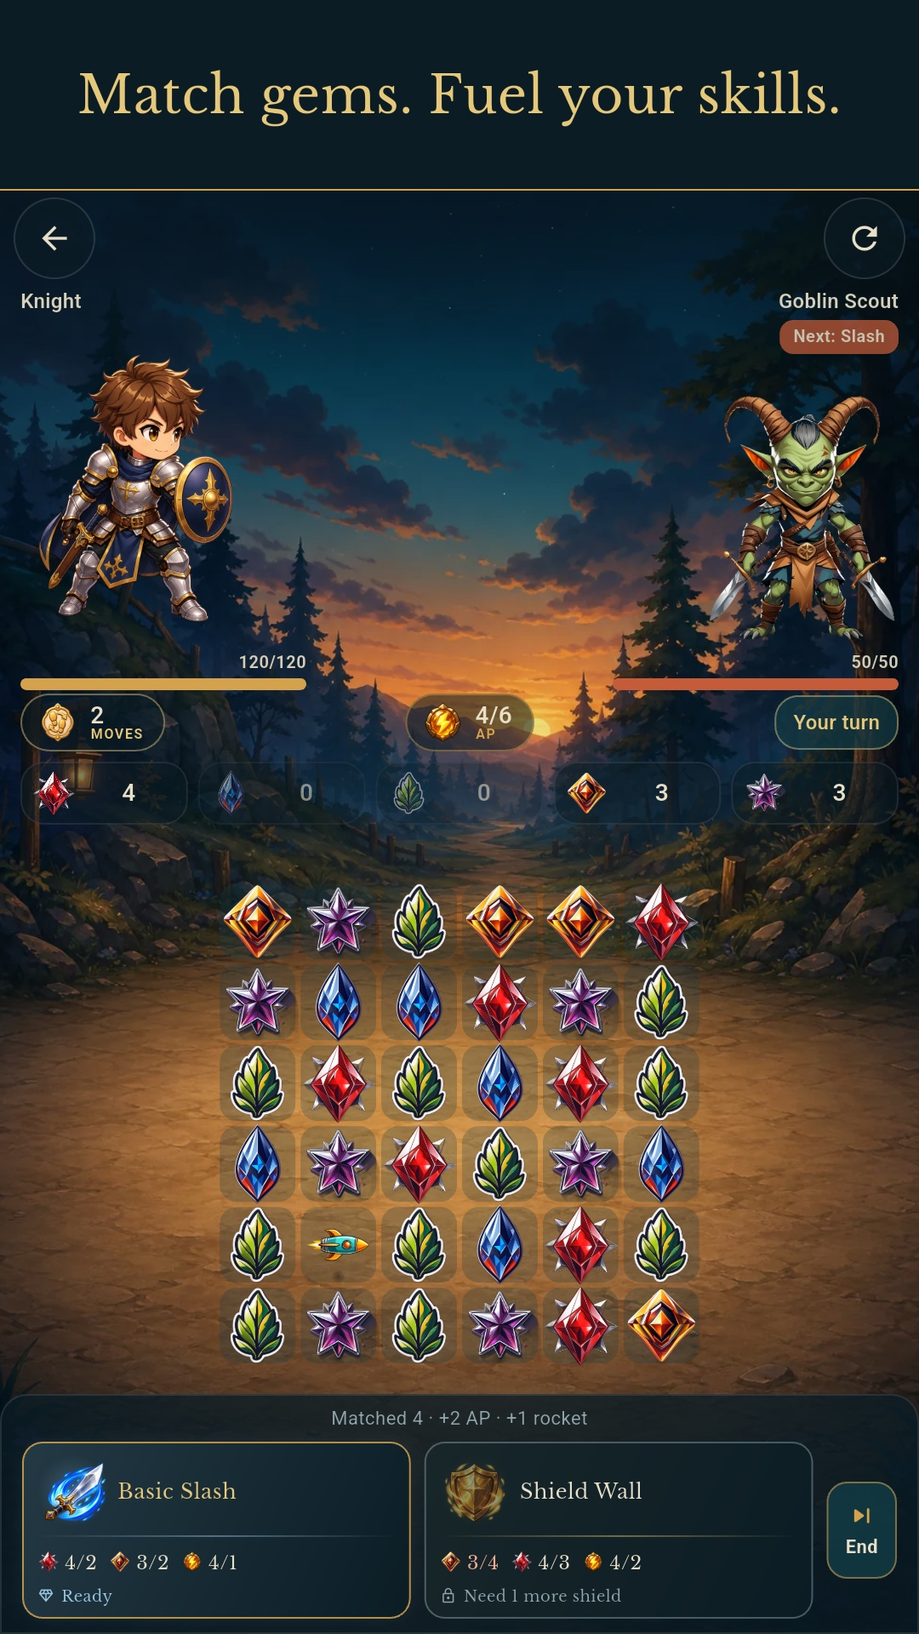
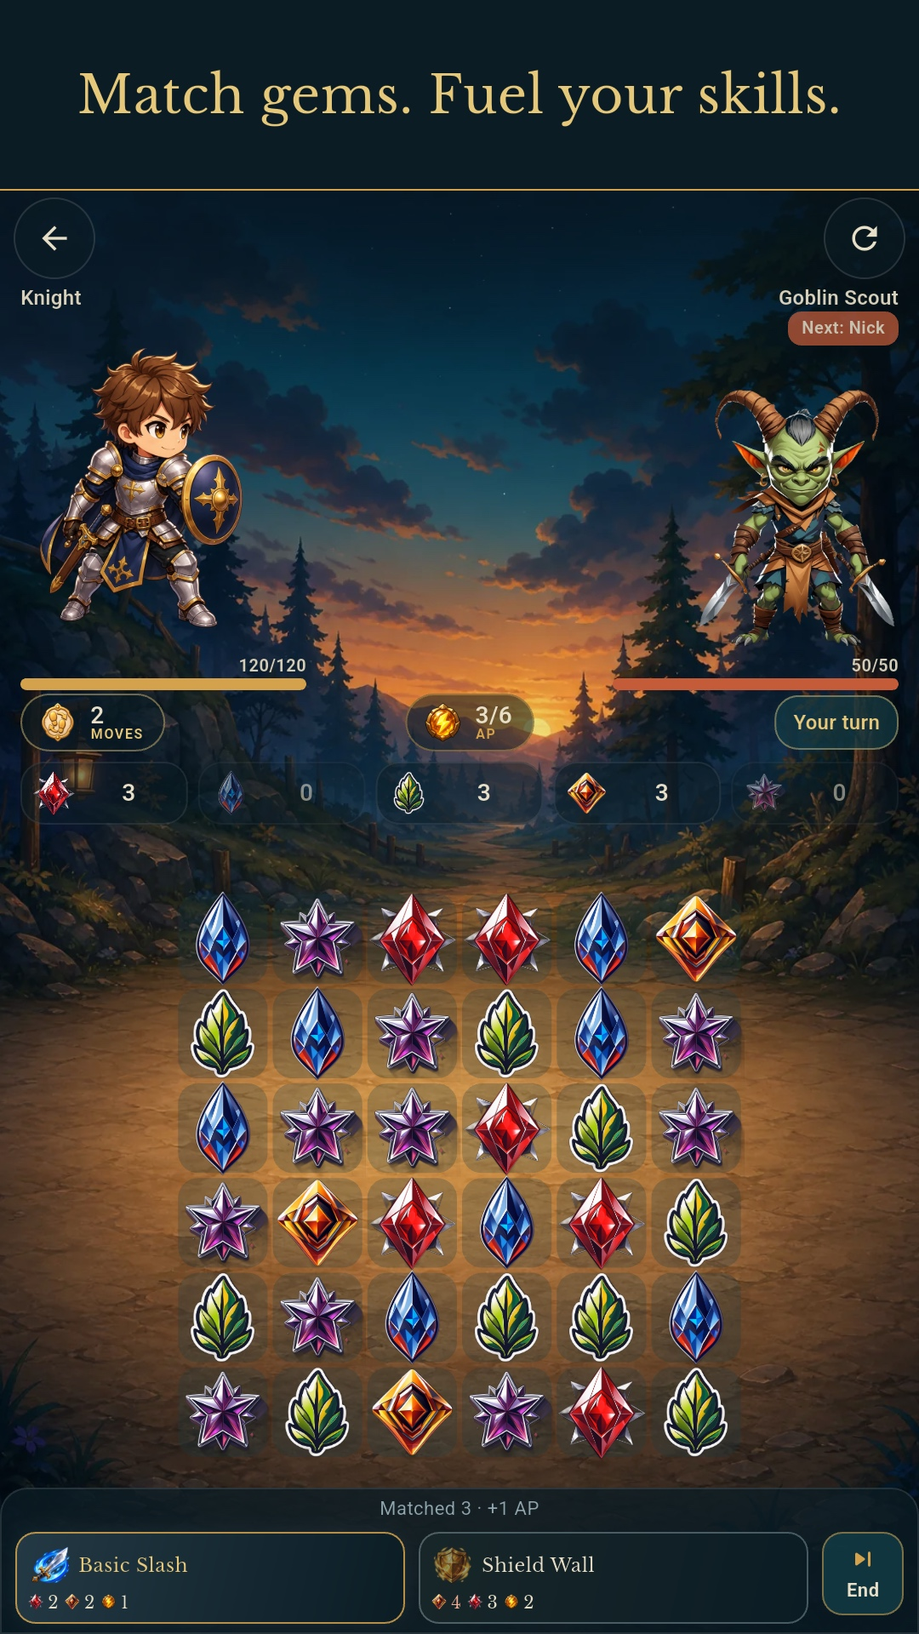
Compact battle skill buttons while restoring original board and character sizing.
Refresh Play combat screenshots and archive the tall-button and rejected v2 layout experiments.

diff --git a/lib/features/battle/presentation/battle_skill_button.dart b/lib/features/battle/presentation/battle_skill_button.dart
@@ -101,14 +101,9 @@ class _BattleSkillButtonState extends State<BattleSkillButton> {
     final duration =
         reduceMotion ? Duration.zero : const Duration(milliseconds: 140);
     final enabled = !unavailable && !casting;
-    final compact = MediaQuery.sizeOf(context).height < 640 ||
-        MediaQuery.textScalerOf(context).scale(14) > 18;
-    final iconSize = compact ? 34.0 : 42.0;
-    final titleSize = compact ? 11.0 : 12.0;
-    final statusSize = compact ? 8.0 : 9.0;
-    final pad = compact
-        ? const EdgeInsets.fromLTRB(6, 5, 6, 5)
-        : const EdgeInsets.fromLTRB(8, 7, 8, 7);
+    final details = '${widget.skill.name}: $label\n'
+        '${afford.resourceLines.map((line) => '${line.resourceId} ${line.have}/${line.need}').join(' · ')}'
+        ' · AP ${afford.apHave}/${afford.apNeed}';
     return Semantics(
       button: true,
       enabled: enabled,
@@ -118,7 +113,7 @@ class _BattleSkillButtonState extends State<BattleSkillButton> {
       onTap: enabled ? _cast : null,
       excludeSemantics: true,
       child: Tooltip(
-          message: '${widget.skill.name}: $label',
+          message: details,
           triggerMode: TooltipTriggerMode.longPress,
           child: AnimatedScale(
               scale: pressed ? .97 : 1,
@@ -168,99 +163,63 @@ class _BattleSkillButtonState extends State<BattleSkillButton> {
                       },
                       splashColor: accent.withValues(alpha: .2),
                       highlightColor: accent.withValues(alpha: .1),
-                      child: Padding(
-                          padding: pad,
-                          child:
-                              Column(mainAxisSize: MainAxisSize.min, children: [
-                            Row(children: [
-                              Container(
-                                  width: iconSize,
-                                  height: iconSize,
-                                  decoration: BoxDecoration(
-                                      shape: BoxShape.circle,
-                                      gradient: RadialGradient(colors: [
-                                        accent.withValues(
-                                            alpha: unavailable ? .08 : .25),
-                                        accent.withValues(alpha: 0)
-                                      ])),
-                                  child: Opacity(
-                                      opacity: unavailable ? .5 : 1,
-                                      child: SkillArt(
-                                          skill: widget.skill,
-                                          size: iconSize))),
-                              const SizedBox(width: 5),
-                              Expanded(
-                                  child: Text(widget.skill.name,
-                                      maxLines: compact ? 1 : 2,
-                                      overflow: TextOverflow.ellipsis,
-                                      style: TextStyle(
-                                          fontFamily: 'DailySerif',
-                                          fontSize: titleSize,
-                                          height: 1.2,
-                                          color: unavailable
-                                              ? MythDuskColors.parchment
-                                              : MythDuskColors.softGold))),
-                            ]),
-                            SizedBox(height: compact ? 3 : 5),
-                            Container(
-                                height: 1,
-                                decoration: BoxDecoration(
-                                    gradient: LinearGradient(colors: [
-                                  accent.withValues(alpha: 0),
-                                  accent.withValues(alpha: .45),
-                                  accent.withValues(alpha: 0)
-                                ]))),
-                            SizedBox(height: compact ? 4 : 7),
-                            Align(
-                                alignment: Alignment.centerLeft,
-                                child: Wrap(
-                                    spacing: 7,
-                                    runSpacing: 2,
-                                    crossAxisAlignment:
-                                        WrapCrossAlignment.center,
-                                    children: [
-                                      for (final line in afford.resourceLines)
-                                        _SkillCost(
-                                            asset: GameAssets.resourceIcon(
-                                                line.resourceId),
-                                            label: line.label,
-                                            name: line.resourceId,
-                                            missing: !line.ok),
-                                      _SkillCost(
-                                          asset: GameAssets.iconAp,
-                                          label:
-                                              '${afford.apHave}/${afford.apNeed}',
-                                          name: 'AP',
-                                          missing: !afford.apOk),
-                                    ])),
-                            SizedBox(height: compact ? 4 : 7),
-                            Row(children: [
-                              Icon(
-                                  unavailable
-                                      ? Icons.lock_outline
-                                      : casting
-                                          ? Icons.auto_awesome
-                                          : Icons.diamond_outlined,
-                                  size: 10,
-                                  color: unavailable
-                                      ? MythDuskColors.muted
-                                      : accent),
-                              const SizedBox(width: 4),
-                              Expanded(
-                                  child: Text(label,
-                                      maxLines: compact ? 1 : 2,
-                                      overflow: TextOverflow.ellipsis,
-                                      style: TextStyle(
-                                          fontFamily: 'DailySerif',
-                                          fontSize: statusSize,
-                                          height: 1.15,
-                                          color: unavailable
-                                              ? MythDuskColors.muted
-                                              : accent))),
-                              if (casting)
-                                Icon(Icons.bolt, size: 12, color: accent),
-                            ]),
-                          ])),
+                      child: ConstrainedBox(
+                        constraints: const BoxConstraints(minHeight: 52),
+                        child: Padding(
+                            padding: const EdgeInsets.symmetric(
+                                horizontal: 6, vertical: 5),
+                            child: Column(
+                                mainAxisSize: MainAxisSize.min,
+                                children: [
+                                  Row(children: [
+                                    Opacity(
+                                        opacity: unavailable ? .55 : 1,
+                                        child: SkillArt(
+                                            skill: widget.skill, size: 26)),
+                                    const SizedBox(width: 4),
+                                    Expanded(
+                                        child: Text(widget.skill.name,
+                                            maxLines: 1,
+                                            overflow: TextOverflow.ellipsis,
+                                            style: TextStyle(
+                                                fontFamily: 'DailySerif',
+                                                fontSize: 11,
+                                                color: unavailable
+                                                    ? MythDuskColors.parchment
+                                                    : MythDuskColors
+                                                        .softGold))),
+                                    if (casting)
+                                      Icon(Icons.auto_awesome,
+                                          size: 10, color: accent),
+                                  ]),
+                                  const SizedBox(height: 2),
+                                  Align(
+                                      alignment: Alignment.centerLeft,
+                                      child: Wrap(
+                                        spacing: 3,
+                                        runSpacing: 2,
+                                        crossAxisAlignment:
+                                            WrapCrossAlignment.center,
+                                        children: [
+                                          for (final line
+                                              in afford.resourceLines)
+                                            _SkillCost(
+                                                asset: GameAssets.resourceIcon(
+                                                    line.resourceId),
+                                                label: '${line.need}',
+                                                name:
+                                                    '${line.resourceId} ${line.have}/${line.need}',
+                                                missing: !line.ok),
+                                          _SkillCost(
+                                              asset: GameAssets.iconAp,
+                                              label: '${afford.apNeed}',
+                                              name:
+                                                  'AP ${afford.apHave}/${afford.apNeed}',
+                                              missing: !afford.apOk),
+                                        ],
+                                      )),
+                                ])),
+                      ),
                     )),
               ))),
     );
@@ -279,16 +238,17 @@ class _SkillCost extends StatelessWidget {
   final bool missing;
   @override
   Widget build(BuildContext context) => Tooltip(
-      message: '$name: $label',
+      message: name,
       child: Row(mainAxisSize: MainAxisSize.min, children: [
-        Image.asset(asset, width: 13, height: 13, excludeFromSemantics: true),
-        const SizedBox(width: 3),
-        Text(label,
-            style: TextStyle(
-                fontFamily: 'DailySerif',
-                fontSize: 11,
-                color: missing
-                    ? const Color(0xFFF0AD91)
-                    : MythDuskColors.parchment)),
+        Image.asset(asset, width: 10, height: 10, excludeFromSemantics: true),
+        const SizedBox(width: 2),
+        Flexible(
+            child: Text(label,
+                style: TextStyle(
+                    fontFamily: 'DailySerif',
+                    fontSize: 10,
+                    color: missing
+                        ? const Color(0xFFF0AD91)
+                        : MythDuskColors.parchment))),
       ]));
 }

diff --git a/test/battle_skill_button_test.dart b/test/battle_skill_button_test.dart
@@ -11,6 +11,7 @@ import 'package:mythdusk/core/widgets/skill_art.dart';
 import 'package:mythdusk/features/battle/domain/battle_state.dart';
 import 'package:mythdusk/features/battle/presentation/battle_screen.dart';
 import 'package:mythdusk/features/battle/presentation/battle_skill_button.dart';
+import 'package:mythdusk/features/battle/presentation/battle_stage.dart';
 import 'package:mythdusk/features/battle/presentation/animated_puzzle_board.dart';
 import 'package:mythdusk/features/campaign/data/campaign_repository.dart';
 import 'package:mythdusk/features/profile/providers/mock_profile_provider.dart';
@@ -30,6 +31,7 @@ void main() {
   testWidgets(
       'all 20 skills display live costs and charge exactly once per cast',
       (tester) async {
+    final semantics = tester.ensureSemantics();
     for (final hero in HeroCatalog.all) {
       for (final skill in hero.skills) {
         var battle = _ready(hero);
@@ -41,7 +43,7 @@ void main() {
             home: Scaffold(body: StatefulBuilder(builder: (context, setState) {
               update = setState;
               return SizedBox(
-                  width: 220,
+                  width: 116,
                   child: BattleSkillButton(
                       key: ValueKey(skill.id),
                       skill: skill,
@@ -56,10 +58,15 @@ void main() {
             }))));
         await tester.pumpAndSettle();
         expect(find.byType(SkillArt), findsOneWidget);
-        expect(find.text('${hero.maxAp}/${skill.apCost}'), findsOneWidget);
+        expect(
+            find.bySemanticsLabel(
+                RegExp('AP ${hero.maxAp} of ${skill.apCost} required')),
+            findsOneWidget);
+        expect(tester.getSize(find.byType(BattleSkillButton)).height,
+            lessThanOrEqualTo(64));
         await tester.tap(find.byType(BattleSkillButton));
         await tester.pump();
-        expect(find.text('Casting…'), findsOneWidget);
+        expect(find.bySemanticsLabel(RegExp('Casting…')), findsOneWidget);
         await tester.tap(find.byType(BattleSkillButton));
         expect(casts, 1);
         expect(battle.ap, hero.maxAp - skill.apCost);
@@ -68,10 +75,11 @@ void main() {
         }
         finished.complete();
         await tester.pumpAndSettle();
-        expect(find.text('Casting…'), findsNothing);
+        expect(find.bySemanticsLabel(RegExp('Casting…')), findsNothing);
         expect(tester.takeException(), isNull);
       }
     }
+    semantics.dispose();
   });
 
   testWidgets('missing AP or resources and non-player phases block input',
@@ -127,6 +135,30 @@ void main() {
   });
 
   testWidgets(
+      'long press shows exact costs without casting an unavailable skill',
+      (tester) async {
+    var casts = 0;
+    final battle = _ready(HeroCatalog.mage).copyWith(ap: 0);
+    await tester.pumpWidget(MaterialApp(
+        home: Scaffold(
+            body: Center(
+                child: SizedBox(
+                    width: 180,
+                    child: BattleSkillButton(
+                        skill: HeroCatalog.mage.skills.first,
+                        battle: battle,
+                        onTap: () async {
+                          casts++;
+                        }))))));
+    await tester.pumpAndSettle();
+    await tester.longPress(find.byType(BattleSkillButton));
+    await tester.pumpAndSettle();
+    expect(find.textContaining('mana 20/4'), findsOneWidget);
+    expect(find.textContaining('AP 0/2'), findsOneWidget);
+    expect(casts, 0);
+  });
+
+  testWidgets(
       'full battle keeps board visible and skills reachable on compact phones',
       (tester) async {
     SharedPreferences.setMockInitialValues({
@@ -171,6 +203,13 @@ void main() {
         await tester.pumpAndSettle();
         expect(find.byType(BattleSkillButton), findsNWidgets(2));
         expect(find.text('Meteor Shard'), findsOneWidget);
+        final compact = size.height < 640 || scale > 1.3;
+        final expectedStageHeight = (size.height * (compact ? .24 : .28)).clamp(
+          compact ? (scale > 1.3 ? 160.0 : 140.0) : 160.0,
+          compact ? 220.0 : 280.0,
+        );
+        expect(tester.getSize(find.byType(BattleStage)).height,
+            closeTo(expectedStageHeight, .1));
         expect(tester.getSize(find.byType(AnimatedPuzzleBoard)).height,
             greaterThan(120));
         await tester.ensureVisible(find.byType(BattleSkillButton).first);

diff --git a/lib/features/battle/presentation/battle_screen.dart b/lib/features/battle/presentation/battle_screen.dart
@@ -428,8 +428,7 @@ class _BattleScreenState extends ConsumerState<BattleScreen> {
                             color: Colors.white.withValues(alpha: 0.10),
                           ),
                         ),
-                        padding: EdgeInsets.fromLTRB(
-                            12, compact ? 4 : 6, 12, compact ? 6 : 8),
+                        padding: const EdgeInsets.fromLTRB(8, 4, 8, 5),
                         child: Column(
                           mainAxisSize: MainAxisSize.min,
                           children: [
@@ -675,8 +674,9 @@ class _EndTurnButton extends StatelessWidget {
         borderRadius: BorderRadius.circular(12),
         onTap: enabled ? onTap : null,
         child: AnimatedContainer(
+          constraints: const BoxConstraints(minHeight: 48, minWidth: 48),
           duration: const Duration(milliseconds: 200),
-          padding: const EdgeInsets.symmetric(horizontal: 10, vertical: 10),
+          padding: const EdgeInsets.symmetric(horizontal: 8, vertical: 6),
           decoration: BoxDecoration(
             color: enabled
                 ? MythDuskColors.deepTeal.withValues(alpha: 0.85)

diff --git a/art_sources/ui/battle_skills/v2/README.md b/art_sources/ui/battle_skills/v2/README.md
@@ -1,0 +1,28 @@
+# Compact battle controls — v2
+
+Rejected sizing experiment: the owner requested restoring original board and character sizes. That correction is implemented and documented in `../v3/README.md`. Only the smaller action controls are retained. Images below are historical, not the current layout.
+
+2026-10-20 revision following owner feedback that the illustrated cards occupied too much screen space. This supersedes the v1 tall button layout.
+
+## Result
+
+- Slim illustrated skill buttons have a 52px minimum height, with icon/name and a short strip of required resource/AP costs. No divider or separate readiness/status row. All 20 skills remain supported.
+- Ready state uses the gold frame and skill color; unavailable state dims the art and highlights unmet costs. Casting and pressed feedback remain. Full current/required values and the blocking reason are available by long press and through semantics, including on disabled skills.
+- Normal buttons are checked at 116px width and must remain at or below 64px height. Text enlargement may wrap costs; touch targets remain at least 48px.
+- The character stage is secondary (112px at normal text size, 160px at enlarged text). The board uses 97% of available width with a 6px bottom gap. Normal battle layouts prioritize the board without forcing scrolling; enlarged text keeps the scroll fallback and moves End Turn below the skill pair.
+- Removed the duplicate combat-log row above the dock. Moves, AP, resources, enemy intent, and phase remain in the existing HUD/stage. No battle mechanics or costs changed.
+
+## Review
+
+- `previews/compact-battle.png`: Android-rendered Knight battle in the store composition.
+- `previews/before-after.jpg`: tall layout on the left, compact layout on the right. Gameplay states differ because captures use real random boards and puzzle actions.
+- Refreshed combat exports: `art_sources/store/google_play/v1/screenshots/01_puzzle_combat.jpg` through `03_boss_encounter.jpg`.
+- Previous tall captures are retained under `screenshots/archive/tall-buttons/`.
+
+## Verification
+
+42 targeted tests pass across live skill buttons, puzzle resolution, skill affordability, turn handoff, and board effects. Coverage includes all 20 skills, height bounds, exactly-once charges, disabled/phase gating, asynchronous disposal, long-press costs without activation, and complete compact/mastery layouts at 100% and 200% text. On the 390×844 normal-text test, the board's allocated area exceeds half the screen height.
+
+Flutter analysis passes. Android profile build succeeds; native capture and before/after comparison visually inspected. Full suite: 356 passed, 5 failed in existing shop Firebase/layout checks and the settings golden. These failures were not fixed or baselines updated in this layout revision. Existing Android plugin compatibility warnings remain.
+
+Next: review on a physical phone, especially long skill names and comfortable tile swipes. No production deployment or backend changes.

diff --git a/art_sources/store/google_play/v1/screenshots/README.md b/art_sources/store/google_play/v1/screenshots/README.md
@@ -2,7 +2,7 @@
 
 Five English phone screenshot exports at 1080 × 1920, JPEG without alpha. Upload in numeric order. PNG capture masters, including the headline, are retained in `sources/`. The overview in `../previews/phone_screenshots.jpg` is for review only.
 
-Combat screenshots 01–03 were refreshed on 2026-10-20 with the integrated illustrated skill buttons, live current/required costs, and responsive battle layout. The previous set is retained in `archive/plain-buttons/`. Screenshots 04–05 are unchanged. The overview reflects the refreshed set.
+Combat screenshots 01–03 were refreshed on 2026-10-20 with compact illustrated skill buttons and the original board/character sizing restored. Required costs remain visible; long press reveals live current/required values. Previous sets are retained in `archive/plain-buttons/` and `archive/tall-buttons/`. Screenshots 04–05 are unchanged. The overview reflects the corrected set. See `art_sources/ui/battle_skills/v3/README.md`.
 
 | File | Heading | Suggested alt text |
 | --- | --- | --- |
@@ -39,6 +39,6 @@ The fixture serves captures on device loopback only. `?raw=1` omits the headline
 
 - Visually inspected all five PNG masters; verified all JPEG exports are 1080 × 1920 with no alpha, each below 1 MB.
 - `flutter analyze --no-pub` passes; `git diff --check` passes.
-- On refresh: 46 targeted gameplay/live-button tests and 20 artwork/prototype tests pass. The full suite has 353 passing and 7 failing tests in battle safety initialization, shop Firebase setup/layout, and the settings golden. See `art_sources/ui/battle_skills/v1/README.md` for integration details. These failures were not fixed by the screenshot refresh.
+- On compact refresh: 42 targeted gameplay/live-button/layout tests pass. The full suite has 356 passing and 5 failing tests in shop Firebase setup/layout and the settings golden. See `art_sources/ui/battle_skills/v2/README.md` for details. These failures were not fixed by the screenshot refresh.
 - Existing native build warnings: Kotlin Gradle Plugin compatibility warnings from Firebase/sign-in plugins and deprecated Android API use.
 - Play Console acceptance, promotional cropping, localization, and tablet-specific screenshots remain unverified. These are the first phone screenshot set for owner review.

diff --git a/art_sources/ui/battle_skills/v3/README.md b/art_sources/ui/battle_skills/v3/README.md
@@ -1,0 +1,9 @@
+# Compact buttons with original battle sizing
+
+2026-10-20 correction: only shrink the action controls. The board's original 0.89 scale and 18px bottom spacing are restored exactly. Character stage sizing, compact-screen board height, scrolling rules, and the combat-status row are restored to the pre-v2 implementation. The original board source has no diff against the repository baseline.
+
+Retained changes: slim illustrated skill buttons with visible required costs, full current/required information on long press, existing casting/disabled semantics, and the compact End Turn touch target. No skill costs or combat mechanics change.
+
+Validation: 11 button/layout/board-effects tests pass, including exact original stage-height checks at normal/enlarged text, all-20-skill cost/activation checks, and long-press behavior. Flutter analysis is clean; Android profile build succeeds. Combat screenshots 01–03 and the listing overview are refreshed with the corrected layout. Existing full-suite shop/settings failures from the previous run remain documented in v2; the full suite was not rerun for this correction.
+
+The v2 board/character resizing experiment is rejected and retained only as history. Next: review the smaller controls on a phone without changing the established battle geometry.

diff --git a/art_sources/ui/battle_skills/v1/README.md b/art_sources/ui/battle_skills/v1/README.md
@@ -1,5 +1,7 @@
 # Battle skill button concepts — v1
 
+The tall layout documented here is superseded by `../v3/README.md`: smaller action controls with the original board and character sizing. The v1 previews remain as design history.
+
 Initial Flutter design previews for all 20 hero skills, followed by production integration on 2026-10-20. Existing illustrations come from the five skill atlases registered in `lib/core/assets/skill_artwork.dart`; no new raster assets or dependencies were added to the runtime bundle.
 
 ## Review images
